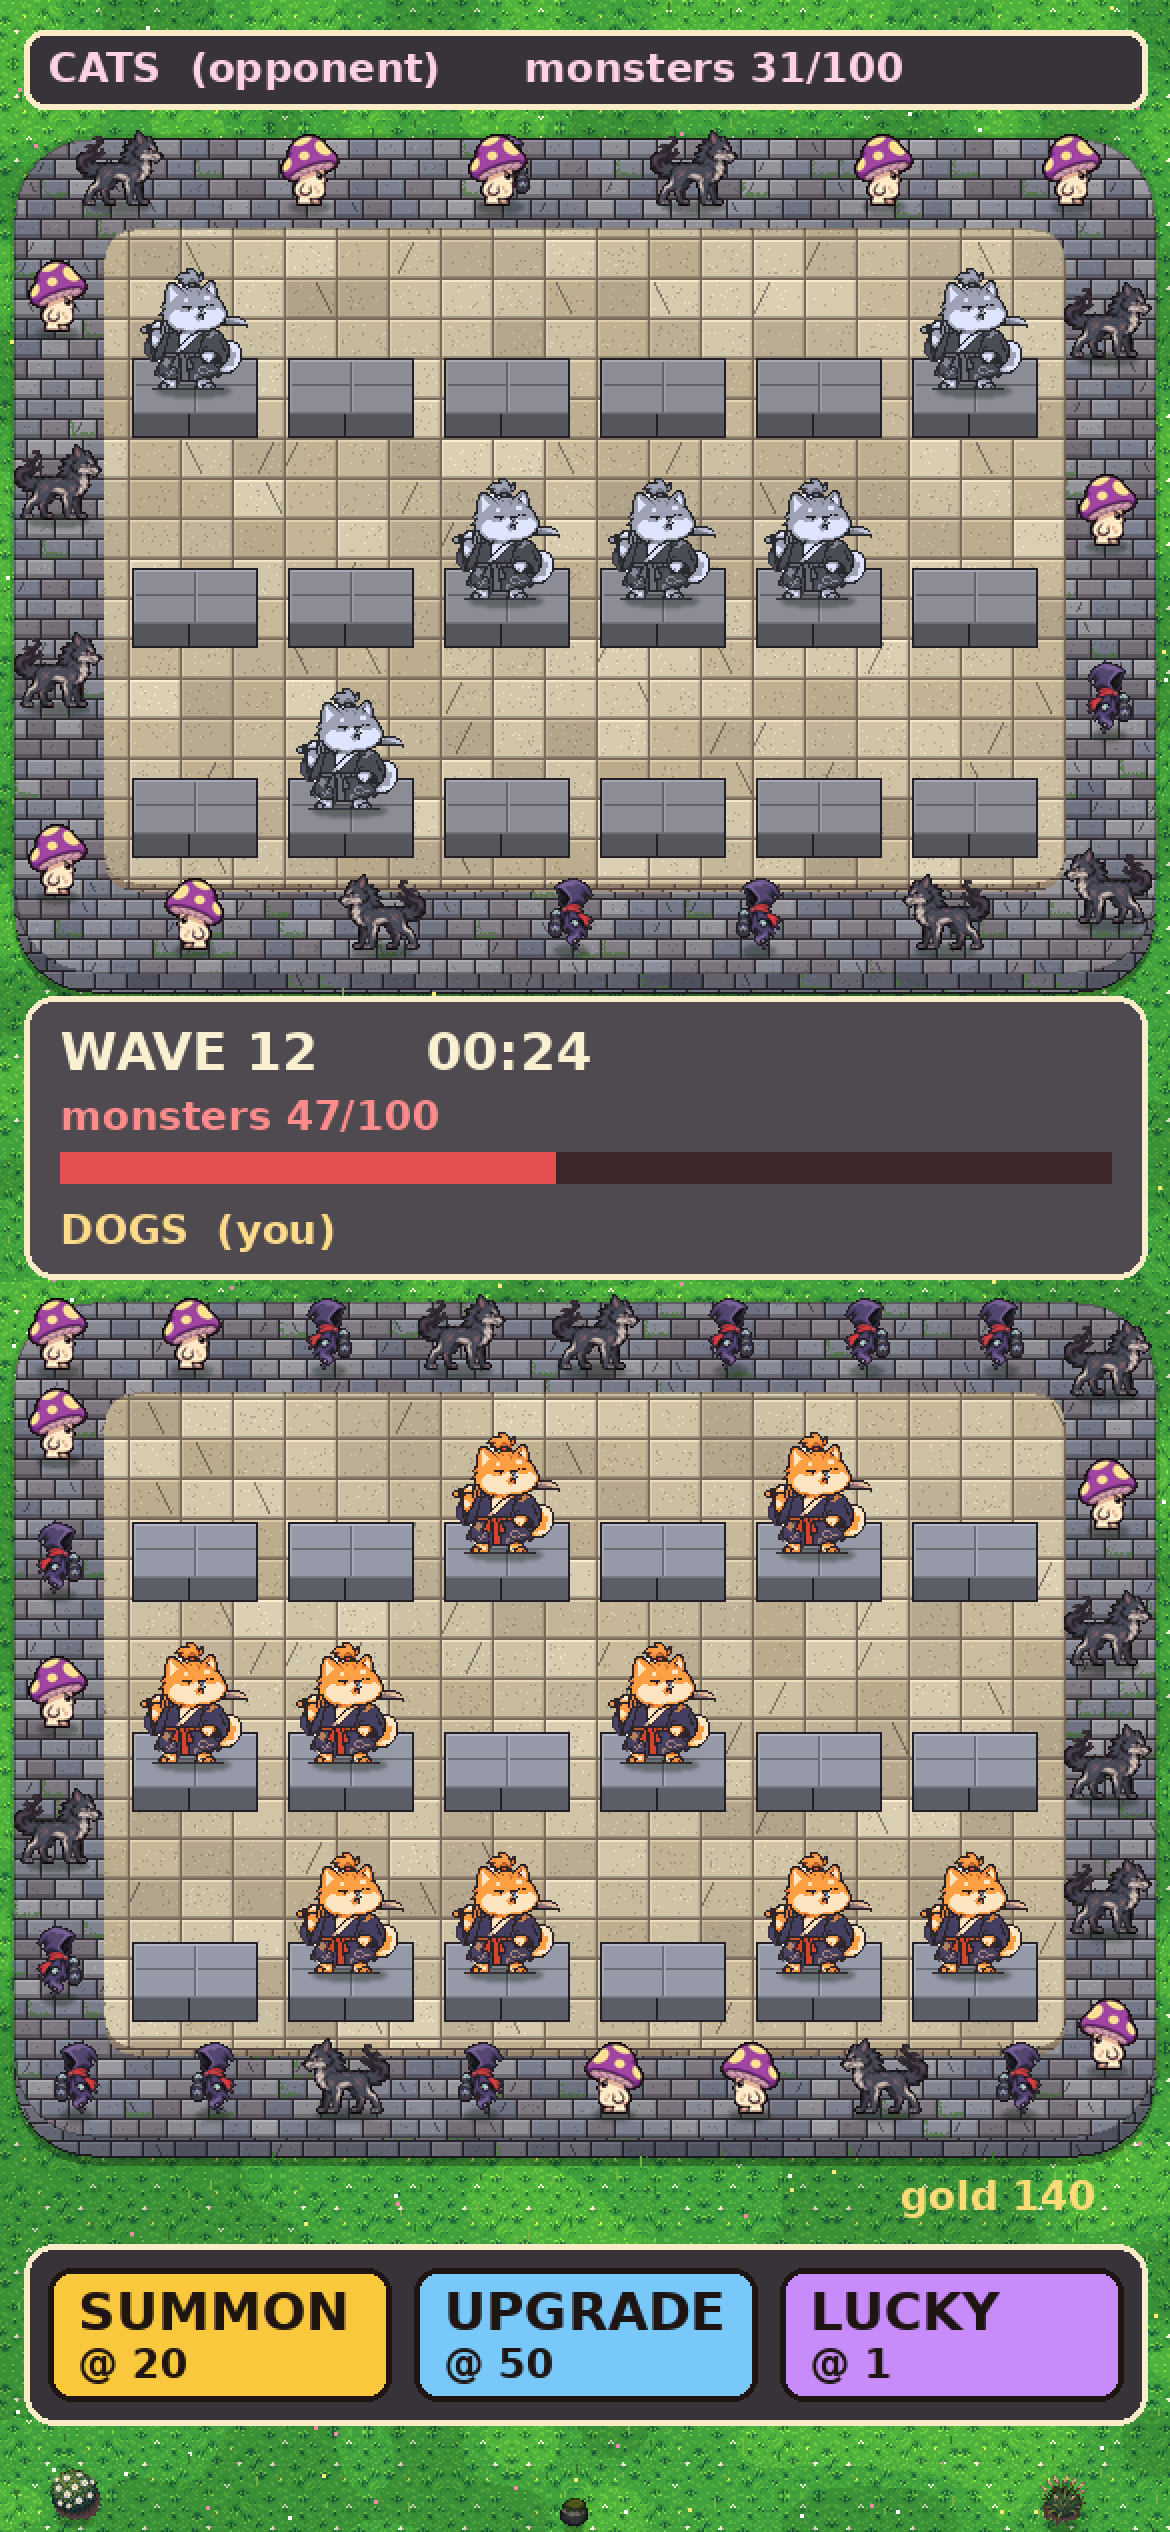
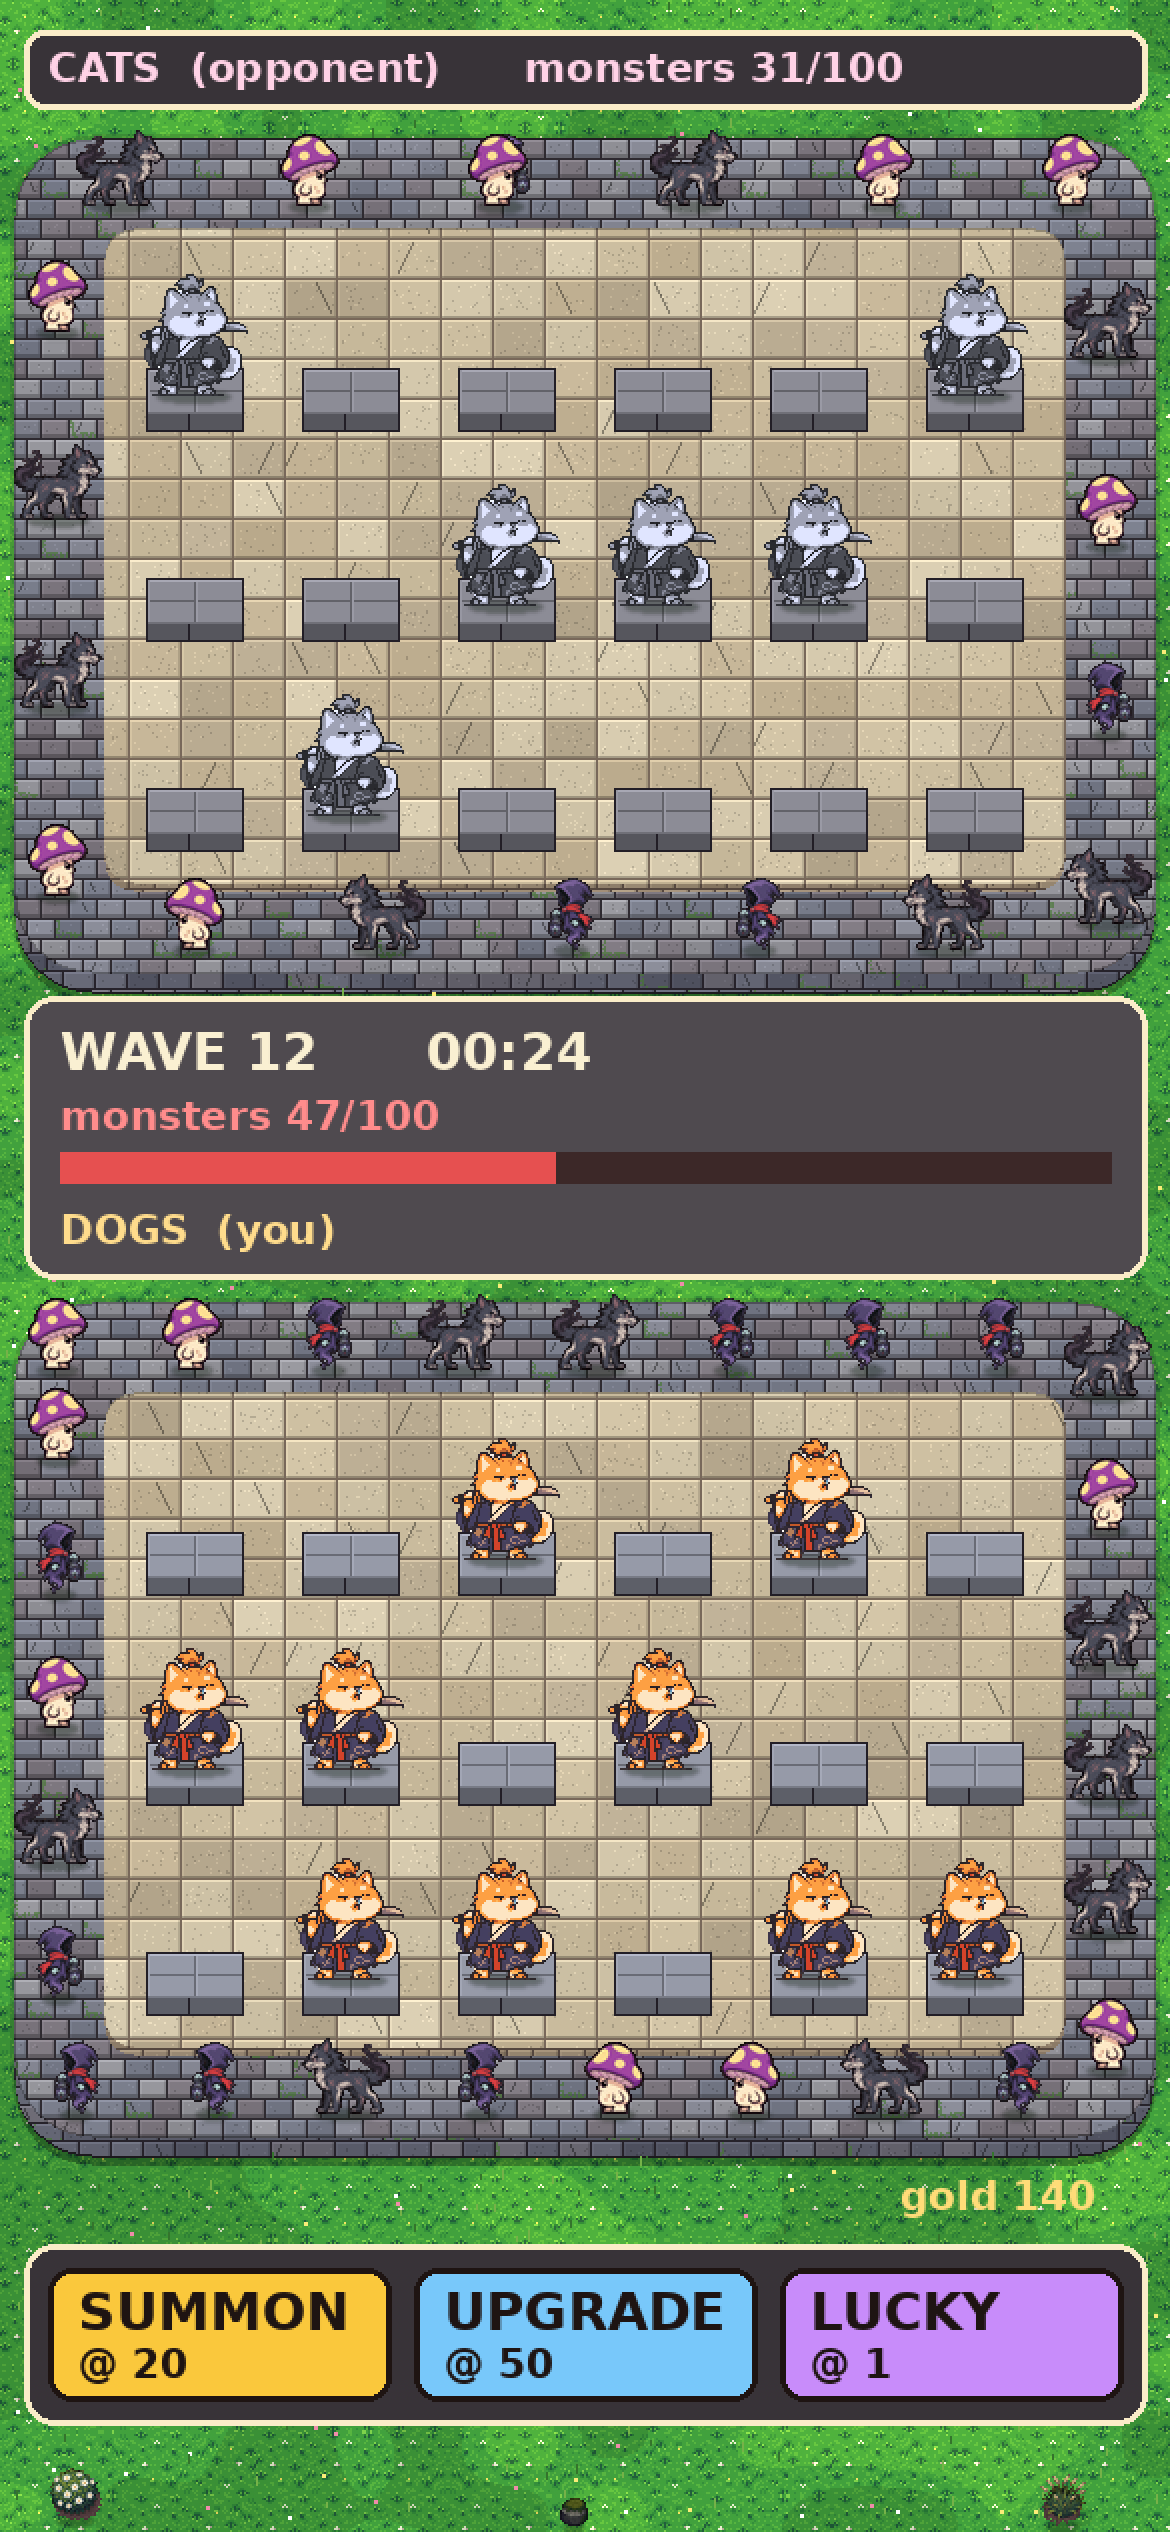
Dogs vs cats mock: zoom-out 2 version, pedestals sized to the character
Claude-Session: https://claude.ai/code/session_01TXxUxQ6wjWh66ESj3NLopA

diff --git a/tools/art/tw_ld_mock.py b/tools/art/tw_ld_mock.py
@@ -88,15 +88,16 @@ for (y0, who), pts in zip(BOARDS, LOOPS):
         for r in range(3):
             x, y = gx + c * CW, gy + r * CHh
             # a raised stone pedestal per slot: top face (4 small tiles) + a front face of 2 blocks
-            l, t, rr, fb = x + z(6), y + CHh - z(30), x + CW - z(6), y + CHh - z(13); tp = (150, 154, 168) if who == 'me' else (140, 140, 150)
-            dr.rectangle((l - 1, t - 1, rr + 1, fb + z(8) + 1), fill=(34, 30, 38))
+            P = Z ** .35                      # pedestals stay about the character's width when zoomed out (not x Z)
+            fb = y + CHh - z(13); l, rr = x + CW // 2 - round(20 * P), x + CW // 2 + round(20 * P); t = fb - round(17 * P); tp = (150, 154, 168) if who == 'me' else (140, 140, 150)
+            dr.rectangle((l - 1, t - 1, rr + 1, fb + round(8 * P) + 1), fill=(34, 30, 38))
             dr.rectangle((l, t, rr, fb), fill=tp); mx, my = (l + rr) // 2, (t + fb) // 2
             dr.line((l, t, rr, t), fill=tuple(min(255, int(v * 1.2)) for v in tp)); dr.line((l, t, l, fb), fill=tuple(int(v * 1.08) for v in tp))
             dr.line((mx, t + 1, mx, fb), fill=tuple(int(v * .7) for v in tp)); dr.line((l + 1, my, rr, my), fill=tuple(int(v * .7) for v in tp))
             dr.line((mx + 1, t + 1, mx + 1, fb), fill=tuple(min(255, int(v * 1.1)) for v in tp))
-            fc = tuple(int(v * .62) for v in tp); dr.rectangle((l, fb + 1, rr, fb + z(8)), fill=fc)
-            dr.line((l, fb + 1, rr, fb + 1), fill=tuple(int(v * .8) for v in tp)); dr.line((mx - 3, fb + 2, mx - 3, fb + z(8)), fill=(34, 30, 38))
-            if (c, r) in occ: items.append((y + CHh - z(21) + 2, SB if who == 'me' else GREY, x + CW // 2 - SB.width // 2))
+            fc = tuple(int(v * .62) for v in tp); dr.rectangle((l, fb + 1, rr, fb + round(8 * P)), fill=fc)
+            dr.line((l, fb + 1, rr, fb + 1), fill=tuple(int(v * .8) for v in tp)); dr.line((mx - 3, fb + 2, mx - 3, fb + round(8 * P)), fill=(34, 30, 38))
+            if (c, r) in occ: items.append(((t + fb) // 2 + 3, SB if who == 'me' else GREY, x + CW // 2 - SB.width // 2))
     # monsters on the loop
     for i in range(0, 400, 15 if who == 'me' else 21):
         px, py = pts[(i + (0 if who == 'me' else 50)) % 400]; k2 = random.choice(['shroom', 'wisp', 'wolf'])

diff --git a/docs/action-game.md b/docs/action-game.md
@@ -1089,3 +1089,4 @@ rings) for the E whirl skill; the old rogue whirl ring and after-images are off 
 Stone floor (owner 2026-11-12 "ทำพื้นเป็นบล็อกหิน", free): `tools/art/stone_px.py` `blocks()` paints pixel stone blocks in code (mortar, lit top / left edge, darker front lip, specks, cracks, moss). In `tw_ld_mock.py` each board is now a raised stone platform: grey cobble loop, light sandstone slabs lined up with the slot grid, a low step where the middle meets the road, a mossy stone wall under the front edge with a shadow on the grass; slots are raised stone pedestals (4-tile top + front face). The shiba in the mock is now the PixelLab character's south view at 1:1.
 Shrinking the shiba (owner 2026-11-12 "ถ้าย่อชิบะจะเบลอไหม", free): `tools/art/shiba_shrink.py` → `art/incoming/dogcat/shrink/cmp_x4.png`: original 61 px, plain resize to 46 smooth (blurry rim) and nearest (lines broken / doubled, face uneven), the 2x2 merge to 30 px (sharp but the face and kimono pattern mostly gone). Clean small sizes need PixelLab at that size (1 credit), or scale the whole screen instead.
 Zoomed out (owner 2026-11-12 "ทำให้มันดูเล็กโดยซูมออก", free): `ZO=1.5 python3 tools/art/tw_ld_mock.py` → `tw_ld_mock_zo1.5.png` (the screen holds 1.5x more world, 585 x 1266 = a 3x phone at x2 instead of x3; layout, pedestals and HUD grow, characters / monsters / stone blocks keep their pixel size, so they look smaller and stay sharp). Side by side on the same phone: `tw_ld_zoom_cmp.png`.
+Zoom out 2 (owner "ลองซูมออก 2"): `ZO=2` → `tw_ld_mock_zo2.png` (780 x 1688); pedestals now grow only by ZO^0.35 so they stay about the character's width. On a 3x phone zoom 2 = x1.5 per art pixel (not a whole number: pixels very slightly uneven), on a 2x phone x1. `tw_ld_zoom_cmp.png` = now / 1.5 / 2 side by side. At 2 the characters are small and the 6x3 board looks empty.
